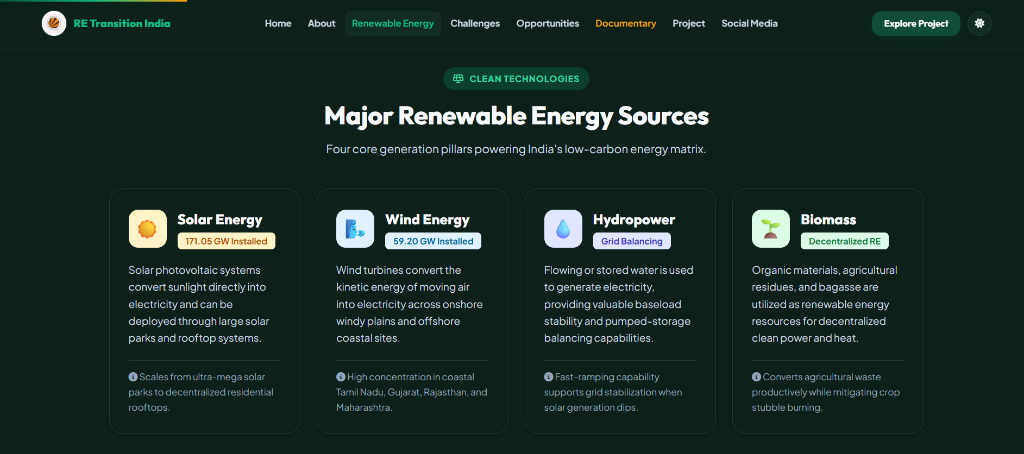
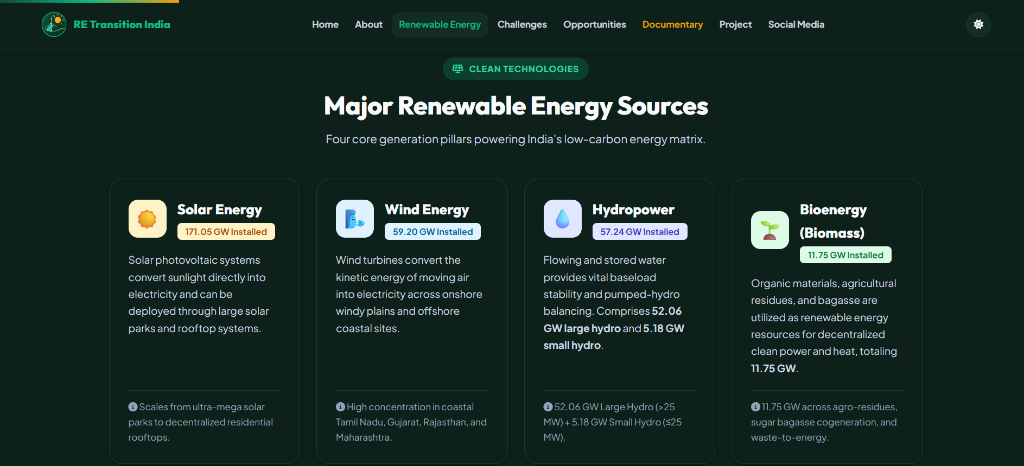
Update image dimensions and enhance footer badge styling

diff --git a/index.html b/index.html
@@ -271,13 +271,6 @@
                         </p>
                     </div>
                 </div>
-
-                <div class="data-reference-wrap">
-                    <a href="#references" class="data-reference-pill">
-                        <i class="fas fa-check-circle icon-accent"></i>
-                        <strong>Data reference: MNRE Physical Progress (30 September 2026), CEA &amp; IEA World Energy Investment</strong>
-                    </a>
-                </div>
             </div>
         </section>
 
@@ -894,7 +887,7 @@
                     <!-- 1. Website Screenshot -->
                     <div class="evidence-card" role="button" tabindex="0" aria-label="View Project Website in full resolution" data-lightbox-title="Project Website">
                         <div class="evidence-img-box">
-                            <img loading="lazy" decoding="async" src="assets/attachments/website_screenshot.png" alt="Project Website" class="evidence-img" width="1280" height="720">
+                            <img loading="lazy" decoding="async" src="assets/attachments/website_screenshot.png" alt="Project Website" class="evidence-img" width="1024" height="461">
                             <div class="evidence-zoom-tag"><i class="fas fa-search-plus"></i></div>
                         </div>
                         <div class="evidence-info">
@@ -906,7 +899,7 @@
                     <!-- 2. Main Information Section -->
                     <div class="evidence-card" role="button" tabindex="0" aria-label="View Main Information Section in full resolution" data-lightbox-title="Main Information Section">
                         <div class="evidence-img-box">
-                            <img loading="lazy" decoding="async" src="assets/attachments/main_info_section.png" alt="Main Information Section" class="evidence-img" width="1280" height="720">
+                            <img loading="lazy" decoding="async" src="assets/attachments/main_info_section.png" alt="Main Information Section" class="evidence-img" width="1024" height="466">
                             <div class="evidence-zoom-tag"><i class="fas fa-search-plus"></i></div>
                         </div>
                         <div class="evidence-info">
@@ -954,7 +947,7 @@
                     <!-- 6. QR Documentary / Drive Folder -->
                     <div class="evidence-card" role="button" tabindex="0" aria-label="View QR – Drive Folder in full resolution" data-lightbox-title="QR – Drive Folder">
                         <div class="evidence-img-box evidence-img-box--qr">
-                            <img loading="lazy" decoding="async" src="assets/qr/qr_code.png" alt="QR – Drive Folder" class="evidence-img evidence-img--contain" width="500" height="500">
+                            <img loading="lazy" decoding="async" src="assets/qr/qr_code.png" alt="QR – Drive Folder" class="evidence-img evidence-img--contain" width="1024" height="1024">
                             <div class="evidence-zoom-tag"><i class="fas fa-search-plus"></i></div>
                         </div>
                         <div class="evidence-info">
@@ -1262,7 +1255,7 @@
 
             <p class="footer-creator">
                 <span class="footer-creator-badge">
-                    <i class="fas fa-user-graduate"></i> Student Researcher: <strong>Alok Kumar Yadav</strong> &bull; Course: <strong>Environmental Studies (CA1)</strong>
+                    <i class="fas fa-user-graduate"></i> Student Researcher: <strong>Alok Kumar Yadav</strong>
                 </span>
             </p>
 

diff --git a/css/style.css b/css/style.css
@@ -1500,14 +1500,16 @@ section:nth-child(even) {
 .footer-creator-badge {
   display: inline-flex;
   align-items: center;
+  justify-content: center;
   gap: 8px;
-  padding: 6px 18px;
+  padding: 8px 22px;
   background: rgba(245, 158, 11, 0.12);
   border: 1px solid rgba(245, 158, 11, 0.35);
   border-radius: 30px;
   color: #fef3c7;
-  font-size: 0.92rem;
+  font-size: 0.95rem;
   font-weight: 500;
+  letter-spacing: 0.2px;
 }
 .footer-creator-badge strong {
   color: #fbbf24;
